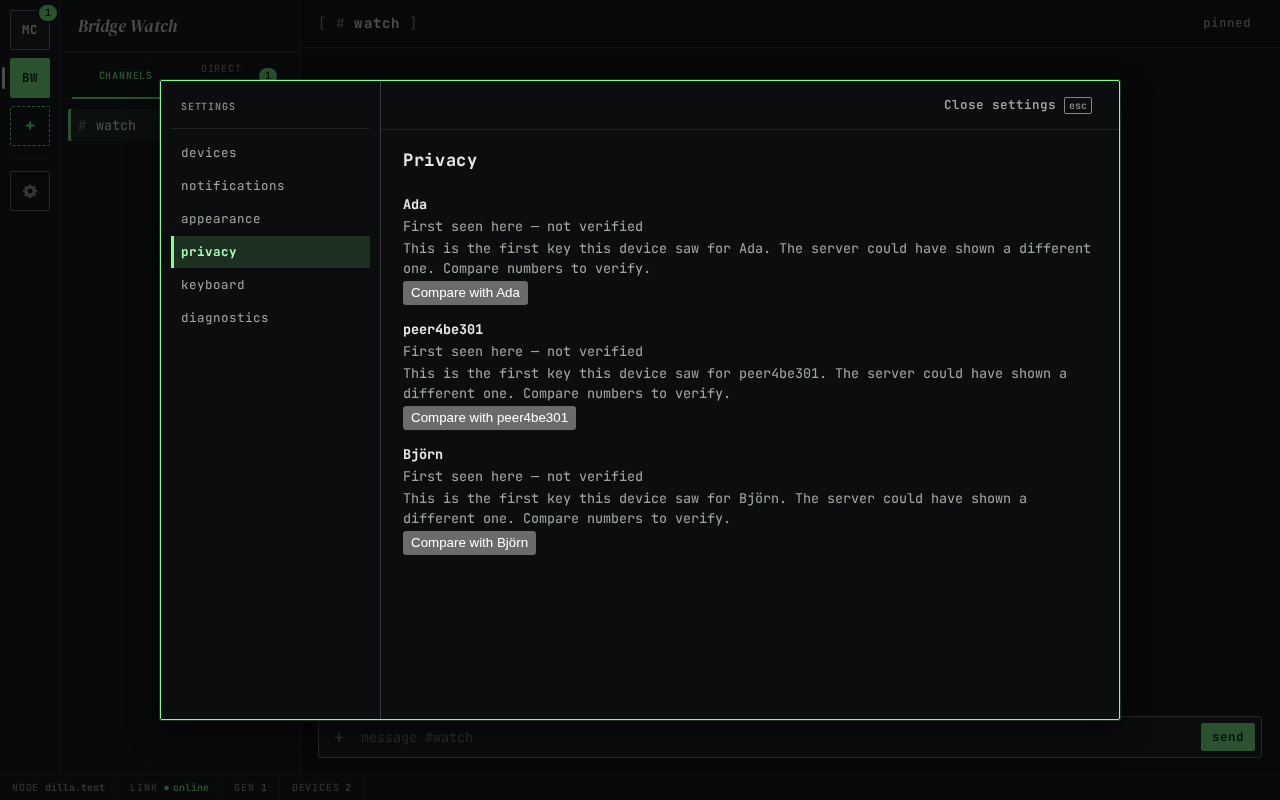
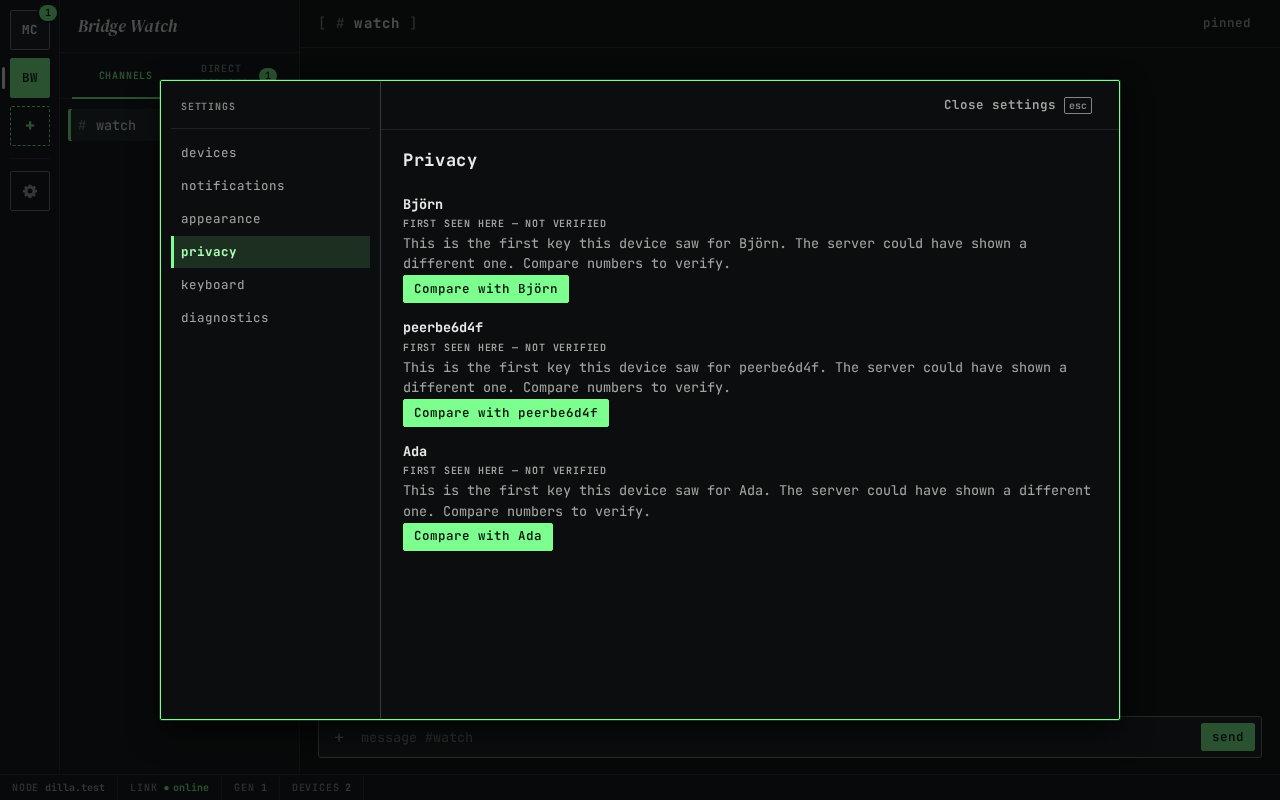
docs: README and the guide after fix wave C2, with re-shot screenshots
README 'What works today' and 'What is not there yet' (dated 2026-10-13)
and the guide (intro now web-2c) describe what the client does after the
fix waves: the own-account warnings and their Devices action, verification
per browser, a device left on an old own key enrolling again, held
changed-key messages showing after the approval, the failed-device and
no-key composer reasons, the paused tab taking the app back, Diagnostics'
instance name and times, search closing from anywhere, and one 'Control'
spelling with a 'Keyboard' heading.

docs:shots re-shot every guide image, adding the compare dialog and the
changed contact in the conversation (alert and blocked composer) at both
viewports. The test peer has no display name (the driver cannot set one),
and the own-account warnings are quoted, not shot: no browser can make a
foreign device of mira's own account.

Claude-Session: https://claude.ai/code/session_01XLFud8eoDaqf8uiZq5wjuP

Changed region(s): [[0.3125, 0.25, 0.8438, 0.7188]]

diff --git a/docs/user/getting-started.md b/docs/user/getting-started.md
@@ -1,9 +1,10 @@
 # Getting started with the dilla web client
 
 This page is for a person who has been sent an invite to a dilla instance. It describes the web client
-as it is on 2026-10-07 ("web-2b"): signing up, using the account in a second browser, devices, channels,
+as it is on 2026-10-13 ("web-2c"): signing up, using the account in a second browser, devices, channels,
 direct messages, badges and notifications, saying more (edits, deletes, reactions, replies, pins, mentions,
-images and files), and what the client cannot do yet. Every quoted line is the text the screen shows;
+images and files), contacts and safety numbers, search, settings and a second tab, and what the client cannot do
+yet. Every quoted line is the text the screen shows;
 `{instance}` stands for the instance's address and `{username}` for yours.
 
 If you run the instance yourself, start with the [operator guide](../deploy/README.md).
@@ -155,8 +156,8 @@ At phone width the channel list sits above the conversation:
 | Escape | In the message list: back to the message field. In a dialog: closes it |
 | Tab, Shift+Tab | Moves between the regions: "skip to messages", the server rail, the channel list, the channel header, the messages, the message field, the status bar |
 | Arrow keys | Move within the server rail and the channel list, which are one Tab stop each |
-| Ctrl+K (⌘+K on a Mac) | Opens search across everything this browser holds |
-| Ctrl+/ | With a conversation open: opens search in this conversation (Control on a Mac too) |
+| Control+K (⌘+K on a Mac) | Opens search across everything this browser holds |
+| Control+/ | With a conversation open: opens search in this conversation (Control on a Mac too) |
 
 The sidebar tabs are one more Tab stop. Arrow Left and Arrow Right switch between "channels" and "direct messages".
 Settings uses Arrow Up, Arrow Down, Home and End to move between sections; Escape closes it.
@@ -296,6 +297,16 @@ a red warning stays at the top of the app and of Settings → Devices: "The reco
 account on {instance} is not this account’s. The recovery key will not work until the operator resets it."
 It cannot be dismissed. Until it goes away, removing a device with the key and adding a browser will fail;
 keep using the browsers you have and ask whoever runs the instance to reset the account's recovery data.
+
+**If a device you don't know uses your account.** Your own devices are checked like a contact's. If a device in
+one of your conversations uses your account but is not on your device list, a red warning stays at the top of the
+app and of Settings → Devices: "A device that is not on your device list is using your account in some
+conversations. Sending is paused there. Remove it in Devices." If it presents a different identity for your
+account: "A device using your account under a different identity is in some of your conversations. Sending is
+paused there. Open Devices and remove any device you don’t recognise." Neither can be dismissed; **Open devices**
+goes to this list. There is nothing to compare for your own account: the warning ends when that device is removed.
+If you changed your account's identity key from another device, a device still on the old key must sign in again
+(section 6).
 
 Settings works at phone width and at high zoom: the sections stack above their content and the whole panel
 scrolls as one column.
@@ -460,14 +471,24 @@ a conversation with:
 - "This device is not on the contact’s list.": a device of this person is not on their list, or their list could
   not be read yet. Its messages are not shown, and there is no **Compare** until the list is read.
 
+Verification belongs to this browser: a second browser of your account keeps its own list and starts again at
+"First seen here — not verified".
+
 To verify someone:
 
 1. Open **Settings → privacy** on your device, and ask the other person to do the same on theirs.
-2. Press **Compare with {name}**. "Compare safety numbers" shows a number of 12 blocks of five digits.
+2. Press **Compare with {name}**. "Compare safety numbers" shows the person's public key and a number of 12 blocks
+   of five digits ("Working out the number…" while it is worked out).
 3. Read the 12 blocks to each other "in person or on a call you started yourself": a voice call that one of you
    started independently, not a link or a message the instance delivered. **Copy number** only copies it; copying
    approves nothing.
-4. Only when all 12 blocks match, tick "Yes, all 12 blocks match" and press **All 12 blocks match**.
+4. Only when all 12 blocks match, tick "Yes, all 12 blocks match" and press **All 12 blocks match**. The dialog
+   closes and the person shows as "verified" with the key you compared. **Close** leaves without approving.
+
+![Compare safety numbers: the key and the 12 blocks of five digits](screenshots/trust-compare-desktop.png)
+
+If the key changes while the dialog is open, it says "The key changed while you compared. Close this and compare
+the new number." and approves nothing.
 
 A number needs a conversation you share: for someone you share none with, Privacy says "Open a conversation with
 this person to compare numbers." and shows no number.
@@ -476,17 +497,26 @@ this person to compare numbers." and shows no number.
 
 ### When a contact's identity changes
 
-![Privacy with a contact whose identity changed: the alert and Compare with](screenshots/trust-changed-desktop.png)
+![A conversation with a contact whose identity changed: the alert, and the message field blocked](screenshots/trust-conversation-desktop.png)
 
 When a contact's identity key changes, the conversation shows the alert "This contact’s identity changed. Compare
-the number before sending." and the message field is blocked with the same words in every conversation you share
-with that person. Their messages under the new key wait, and nothing you received before is removed. Sending in a
-conversation starts again when you compare the new number (the steps above), or, in that one conversation only, when
-that person's changed device is removed from it ("You can send in this conversation after this member leaves. Their
-changed identity is still unverified elsewhere."). The alert's button opens Settings → privacy; pick **Compare with
-{name}** there. A device that fails the checks blocks sending in the conversations that hold it in the same way.
+the number before sending." and the message field (and attaching files) is blocked with the same words in every
+conversation you share with that person. Nothing you received before is removed. What they send under the new key
+waits, and shows once you compare the new number and approve it. Sending in a conversation starts again when you
+compare the new number (the steps above), or, in that one conversation only, when that person's changed device is
+removed from it ("You can send in this conversation after this member leaves. Their changed identity is still
+unverified elsewhere."). The alert's button opens Settings → privacy; pick **Compare with {name}** there.
 
-![The changed contact at 360 pixels wide](screenshots/trust-changed-phone.png)
+![Privacy with a contact whose identity changed: the alert and Compare with](screenshots/trust-changed-desktop.png)
+
+If no device list shows the new key, there is nothing to compare yet: the alert says "This contact’s identity
+changed, but no device list shows the new key, so there is nothing to compare yet. Sending is paused where their
+changed device is a member until it’s removed." and has no **Compare**.
+
+A device that fails the checks pauses sending in the conversations that hold it: the message field says "A device in
+this conversation failed the identity check. Sending is paused here until it’s removed."
+
+![The changed contact in a conversation at 360 pixels wide](screenshots/trust-conversation-phone.png)
 
 ### Search
 
@@ -494,10 +524,11 @@ changed identity is still unverified elsewhere."). The alert's button opens Sett
 
 Search looks only through the messages this browser holds and has decrypted; nothing is sent to the instance.
 
-1. Press **Ctrl+K** (⌘+K on a Mac) for "everything", or **Ctrl+/** in a conversation for "this conversation".
+1. Press **Control+K** (⌘+K on a Mac) for "everything", or **Control+/** in a conversation for "this conversation".
 2. Type into "Search your messages". The scope buttons are "this conversation", "this community" and "everything".
 3. Arrow Down and Arrow Up move through the results while the cursor stays in the field; Enter or a click opens the
-   message and puts the focus on it. Escape closes search.
+   message and puts the focus on it. Escape closes search from anywhere in it, and gives the focus back to where
+   it was. While search is open, the rest of the app cannot be reached with Tab.
 
 "Searching your messages" shows while it searches, "No results in this scope" when nothing matched, and "That
 message is no longer available" when the message was deleted or its conversation is gone. Search has no button on a
@@ -512,16 +543,18 @@ and this browser keeps it.
 
 ### Keyboard
 
-**Settings → keyboard** lists the two shortcuts: "Ctrl/⌘+K" opens search, "Control+/" searches this conversation.
+**Settings → keyboard** ("Keyboard") lists the two shortcuts: "Control/⌘+K" opens search, "Control+/" searches this
+conversation.
 There are no single-key shortcuts.
 
 ### Diagnostics
 
 ![Settings → Diagnostics](screenshots/settings-diagnostics-desktop.png)
 
-**Settings → diagnostics** shows the connection, the instance's generation, the instance and the number of
-devices. **Copy codes** copies the codes of the last 20 errors, one per line, and nothing else: no message, key or
-name, so you can paste them into a report.
+**Settings → diagnostics** shows the connection, the instance's generation, the instance's name and the number of
+your devices, then the codes of the last 20 errors with the time each happened ("No errors recorded" when there are
+none). **Copy codes** copies those codes, one per line, and nothing else: no message, key or name, so you can paste
+them into a report.
 
 ![Diagnostics at 360 pixels wide](screenshots/settings-diagnostics-phone.png)
 
@@ -538,15 +571,17 @@ dilla runs in one tab per browser and instance. A second tab says "dilla is open
 this tab**:
 
 1. Press **Use this tab**. It says "Moving to this tab…" while the first tab finishes its work.
-2. The first tab shows "This tab is paused", and the app opens in the new one.
+2. The first tab shows "This tab is paused" and "dilla moved to another tab. This tab takes over when that one
+   closes, or you can use it here now.", and the app opens in the new one.
 3. If the first tab does not let go, the new one says "Close the other tab, then try again." and its button tries
    again (it is labelled **Use this tab** too).
 
-The paused tab shows nothing of your conversations.
+The paused tab shows nothing of your conversations. Its own **Use this tab** moves the app back to it the same way,
+and when the other tab closes it takes over by itself.
 
 ![The hand-over at 360 pixels wide](screenshots/tabs-handover-phone.png)
 
-## 11. Known limits (2026-10-08)
+## 11. Known limits (2026-10-13)
 
 - No native phone or desktop app. A second browser needs the recovery key and the password (and the code,
   for an account with a second factor). A new browser does not get messages from before it joined. Devices have
@@ -562,12 +597,15 @@ The paused tab shows nothing of your conversations.
 - Who may pin, unpin or mention everyone is not checked yet: anyone in a conversation can. The pins list names who
   pinned each message. Only the author can delete a message.
 - No presence. Notifications require an open tab and browser permission.
-- Search opens only from the keyboard (Ctrl/⌘+K, Ctrl+/); a phone or tablet without a keyboard cannot open it yet.
+- Search opens only from the keyboard (Control/⌘+K, Control+/); a phone or tablet without a keyboard cannot open it yet.
   Search finds only text this browser holds, never files.
 - Messages from before this browser joined a channel are not shown.
 - The first key seen for a person is trusted as first seen until you compare numbers, and an instance can hold back
   a newer device list at that moment. Numbers are compared by reading them aloud only: no QR code, and no number for
-  someone you share no conversation with. Privacy shows no date for a verification.
+  someone you share no conversation with. Privacy shows no date for a verification. Verifications belong to the
+  browser that made them: your other browsers start again at "First seen here — not verified".
+- If your account's identity key changes on another device, a device still on the old key shows the "different
+  identity" warning in your conversations and must sign in again (section 6); it cannot be compared.
 - After a reload, Privacy forgets that a changed contact left a conversation (the contact still shows as changed
   until you compare), and the changed-identity alert opens Privacy rather than the comparison itself.
 - No voice or call screens, no Electron desktop app, no server-readable channels, and no settings shared between
@@ -583,8 +621,11 @@ The screenshots are real: `e2e/scripts/shoot-docs.mjs` starts a `dilla-testhost`
 client, creates the server "Midgard Crew", signs ada, björn and mira up in three Chromium profiles, lets them
 reply, react, edit, pin, mention and share images and files in #general, signs mira into a fourth (recovery
 key, then username and password), and photographs the flows. For section 10 a native test peer (the `dilla-testkit`
-binary) makes the server "Bridge Watch", which mira joins, and later changes its identity key; Privacy, search,
-diagnostics and a second tab are shot at 1280×800 and at 360×740. Every name and
+binary) makes the server "Bridge Watch", which mira joins, and later changes its identity key; Privacy, the comparison,
+the changed contact in the conversation, search, diagnostics and a second tab are shot at 1280×800 and at 360×740.
+The test peer has no display name of its own (the testkit driver cannot set one), so it shows as its username
+"peer…". The own-account warnings of section 7 need a device of mira's account that no browser can make, so they are
+quoted, not shown. Every name and
 message is made up, and the accounts are deleted with the test host. The account has no second factor, so
 step 3 of the sign-in has no screenshot, and the two warnings of sections 6 and 7 that need a second
 sign-in at the same moment or foreign recovery data are quoted, not shown. To re-shoot them (not part of CI):

diff --git a/README.md b/README.md
@@ -16,13 +16,13 @@ machine their group can reach can host it.
 
 ## What works today
 
-As of 2026-10-08.
+As of 2026-10-13.
 
 | Part | State |
 |---|---|
 | The server, `dillad` | Accounts and devices, servers (communities in the API), text channels, DMs, roles, permissions and channel overwrites, kicks and bans, invites, attachments (blobs), reports, encrypted backup objects; `dillad init`, `serve`, `doctor`, `backup`, `restore` and `admin`; TLS by ACME (TLS-ALPN, DNS or IP) or behind a proxy. Container image, systemd unit and Proxmox helper: see the [operator guide](docs/deploy/README.md). |
 | Encrypted calls, at the protocol and media level | Voice, camera and screen share through the in-process LiveKit SFU and TURN relay, with every media frame encrypted end to end (SFrame keys from MLS), driven by the browser package `packages/media` and tested in Chromium and Firefox. The web client has no call screens yet. |
-| The web client ("web-2c") | Served by `dillad` from its own address. Sign up with an invite, then use the account in a second browser: the recovery key first, then username and password, then the second-factor code if the account has one. Read and send text in channels and DMs; DMs stay reachable with no server or when a server did not load. Edit and delete your own messages (a delete removes the message and its files for everyone), react with a set of 32 emoji, reply, pin messages for everyone in the conversation and mention people with `@`; attach images and files of up to 25 MB each, shown as previews or file cards and opened full size. Unread and mention badges appear in the channel list, the sidebar tabs and the server rail. Settings → Devices lists every browser and removes one with the recovery key, signs this browser out and removes it, or forgets it; it works at phone width and high zoom. A persistent warning shows when the instance holds recovery data that is not this account's, and a sign-in that another sign-in pushed out says so. Desktop notifications require opt-in and an open tab. Messages sent before a new browser joins are not shown there. Each contact device is checked against that person's signed device list before its messages are shown; the first key this browser sees for a person is shown as "First seen here — not verified", not as verified. Settings → Privacy compares a 12×5-digit safety number with a contact, read aloud in person or on a call you started yourself; when a contact's identity changes, sending to the conversations they share with you stops until you compare again or they leave that conversation. Search (Ctrl/⌘+K) finds text in the messages this browser holds, in this conversation, this community or everywhere; nothing is searched on the instance. Settings → Keyboard lists the two shortcuts, and Settings → Diagnostics shows the connection, generation, instance and device count and copies recent error codes. A conversation shows who is typing. One tab at a time per browser: a second tab of the same instance waits, and **Use this tab** moves the app there. Tested in Chromium and Firefox, and in WebKit for sign-up and reload. See [Getting started](docs/user/getting-started.md). |
+| The web client ("web-2c") | Served by `dillad` from its own address. Sign up with an invite, then use the account in a second browser: the recovery key first, then username and password, then the second-factor code if the account has one. Read and send text in channels and DMs; DMs stay reachable with no server or when a server did not load. Edit and delete your own messages (a delete removes the message and its files for everyone), react with a set of 32 emoji, reply, pin messages for everyone in the conversation and mention people with `@`; attach images and files of up to 25 MB each, shown as previews or file cards and opened full size. Unread and mention badges appear in the channel list, the sidebar tabs and the server rail. Settings → Devices lists every browser and removes one with the recovery key, signs this browser out and removes it, or forgets it; it works at phone width and high zoom. A persistent warning shows when the instance holds recovery data that is not this account's, and a sign-in that another sign-in pushed out says so. Desktop notifications require opt-in and an open tab. Messages sent before a new browser joins are not shown there. Each contact device is checked against that person's signed device list before its messages are shown; the first key this browser sees for a person is shown as "First seen here — not verified", not as verified. Settings → Privacy compares a 12×5-digit safety number with a contact, read aloud in person or on a call you started yourself; verifications belong to the browser that made them. When a contact's identity changes, sending (and attaching) in the conversations they share with you stops until you compare again or their changed device leaves that conversation, and what they sent under the new key shows once you approve it; a device that fails the checks pauses sending where it is a member. A device that uses your own account but is not on your device list, or under a different identity, raises a warning that stays until it is removed in Settings → Devices. Search (Control/⌘+K) finds text in the messages this browser holds, in this conversation, this community or everywhere; nothing is searched on the instance. Settings → Keyboard lists the two shortcuts, and Settings → Diagnostics shows the connection, generation, instance name and device count and copies recent error codes. A conversation shows who is typing. One tab at a time per browser: a second tab of the same instance waits, **Use this tab** moves the app there, and the paused tab can take it back the same way. Tested in Chromium and Firefox, and in WebKit for sign-up and reload. See [Getting started](docs/user/getting-started.md). |
 
 ![Step 3 of the sign-up: the recovery key, shown once](docs/user/screenshots/onboarding-3-recovery-key.png)
 
@@ -32,7 +32,7 @@ As of 2026-10-08.
 
 ## What is not there yet
 
-As of 2026-10-08, in the web client:
+As of 2026-10-13, in the web client:
 
 - A native app or phone client. The recovery key adds another browser with the account password; it does not
   restore messages sent before that browser joined.
@@ -43,12 +43,15 @@ As of 2026-10-08, in the web client:
 - Voice, camera and screen share in the web client: no call screens or call controls yet.
 - Threads, link previews, markdown and custom emoji; files over 25 MB from a browser; checks of who may pin or mention everyone (anyone in a conversation can, in this version).
 - Presence. Desktop notifications stop when every tab is closed.
-- Search on a touch device without a keyboard: search opens only with Ctrl/⌘+K or Ctrl+/ for now.
+- Search on a touch device without a keyboard: search opens only with Control/⌘+K or Control+/ for now.
 - Comparing safety numbers by QR code, or with someone you share no conversation with ("Open a conversation with
-  this person to compare numbers."). Privacy shows no date for a verification. Privacy's note that a changed
+  this person to compare numbers."). Privacy shows no date for a verification, and a verification made in one browser
+  does not carry over to your other browsers. Privacy's note that a changed
   contact left a conversation is lost after a reload (the contact still shows as changed), and the changed-identity
   alert in a conversation opens Privacy, where you pick **Compare with …**, rather than the comparison itself.
 - Settings that follow you to your other browsers (each browser keeps its own), and server-readable channels.
+- Changing your own identity key keeps the other devices working only if they sign in again: a device left on the
+  old key shows the "different identity" warning and must be enrolled again.
 - More than one working tab per browser: a second tab waits and shows nothing of the conversation until you move
   the app to it.
 
